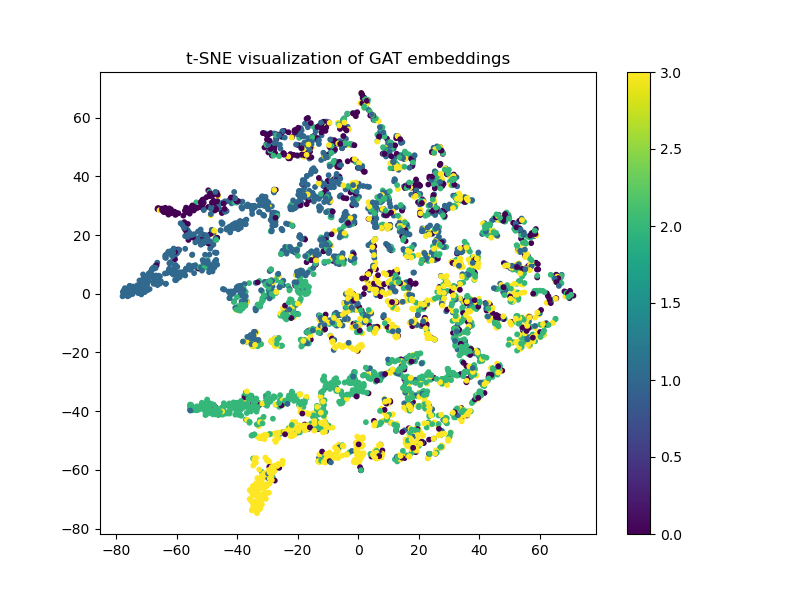
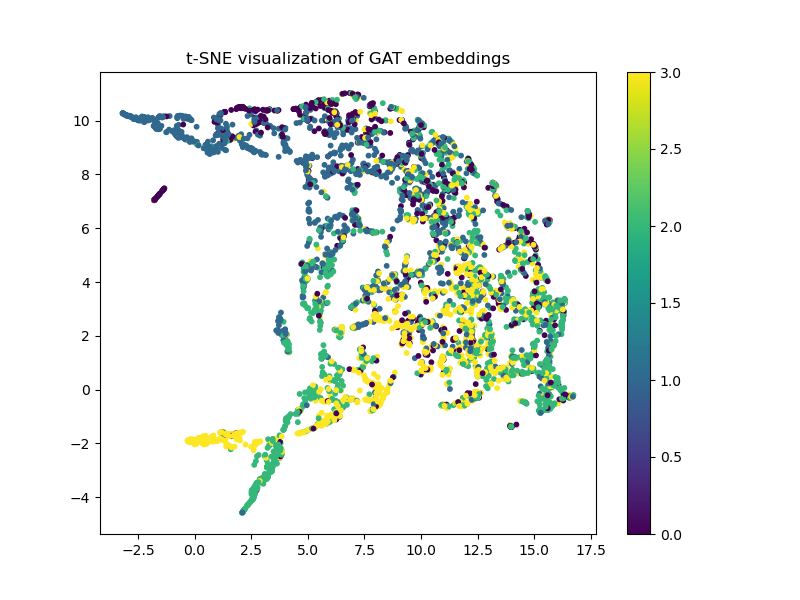
Update UMAP visualization to show distinct node classes in color bar

diff --git a/recognition/gnn-node-classification-TsungTseTu/predict.py b/recognition/gnn-node-classification-TsungTseTu/predict.py
@@ -21,6 +21,8 @@ import matplotlib.pyplot as plt
 import numpy as np
 from train import set_seed
 import os
+from umap import UMAP
+import matplotlib.colors as mcolors
 
 
 
@@ -82,25 +84,32 @@ def predict():
 
         # t-SNE visualization of node embeddings
         print("Generating t-SNE visualization...")
-        tsne = TSNE(n_components=2)
-        embeddings = tsne.fit_transform(out.cpu().numpy())
+        umap_model = UMAP(n_components=2, random_state=42)
+        embeddings = umap_model.fit_transform(out.cpu().numpy())
 
         plt.figure(figsize=(8, 6))
+
+        # Keeping the original colormap and format
         scatter = plt.scatter(embeddings[:, 0], embeddings[:, 1], c=y_test.cpu().numpy(), cmap='viridis', s=10)
-        plt.colorbar(scatter)
-        plt.title('t-SNE visualization of GAT embeddings')
+
+        # Change color bar to distinct categories
+        cbar = plt.colorbar(scatter, ticks=[0, 1, 2, 3])
+        cbar.set_label('Node Classes')
+
+        plt.title('UMAP Plot of Node Embeddings with Ground Truth Labels')
 
         # Save the plot using a relative path
         images_dir = os.path.join(os.getcwd(), 'images')
         if not os.path.exists(images_dir):
             os.makedirs(images_dir)
         
-        save_path = os.path.join(images_dir, 'SNE visualization.png')
+        save_path = os.path.join(images_dir, 'UMAP visualization.png')
         plt.savefig(save_path)
-        print(f"t-SNE plot saved to {save_path}")
+        print(f"UMAP plot saved to {save_path}")
 
         plt.show()
 
+        
     except Exception as e:
         print(f"An error occurred during prediction: {e}")
 
